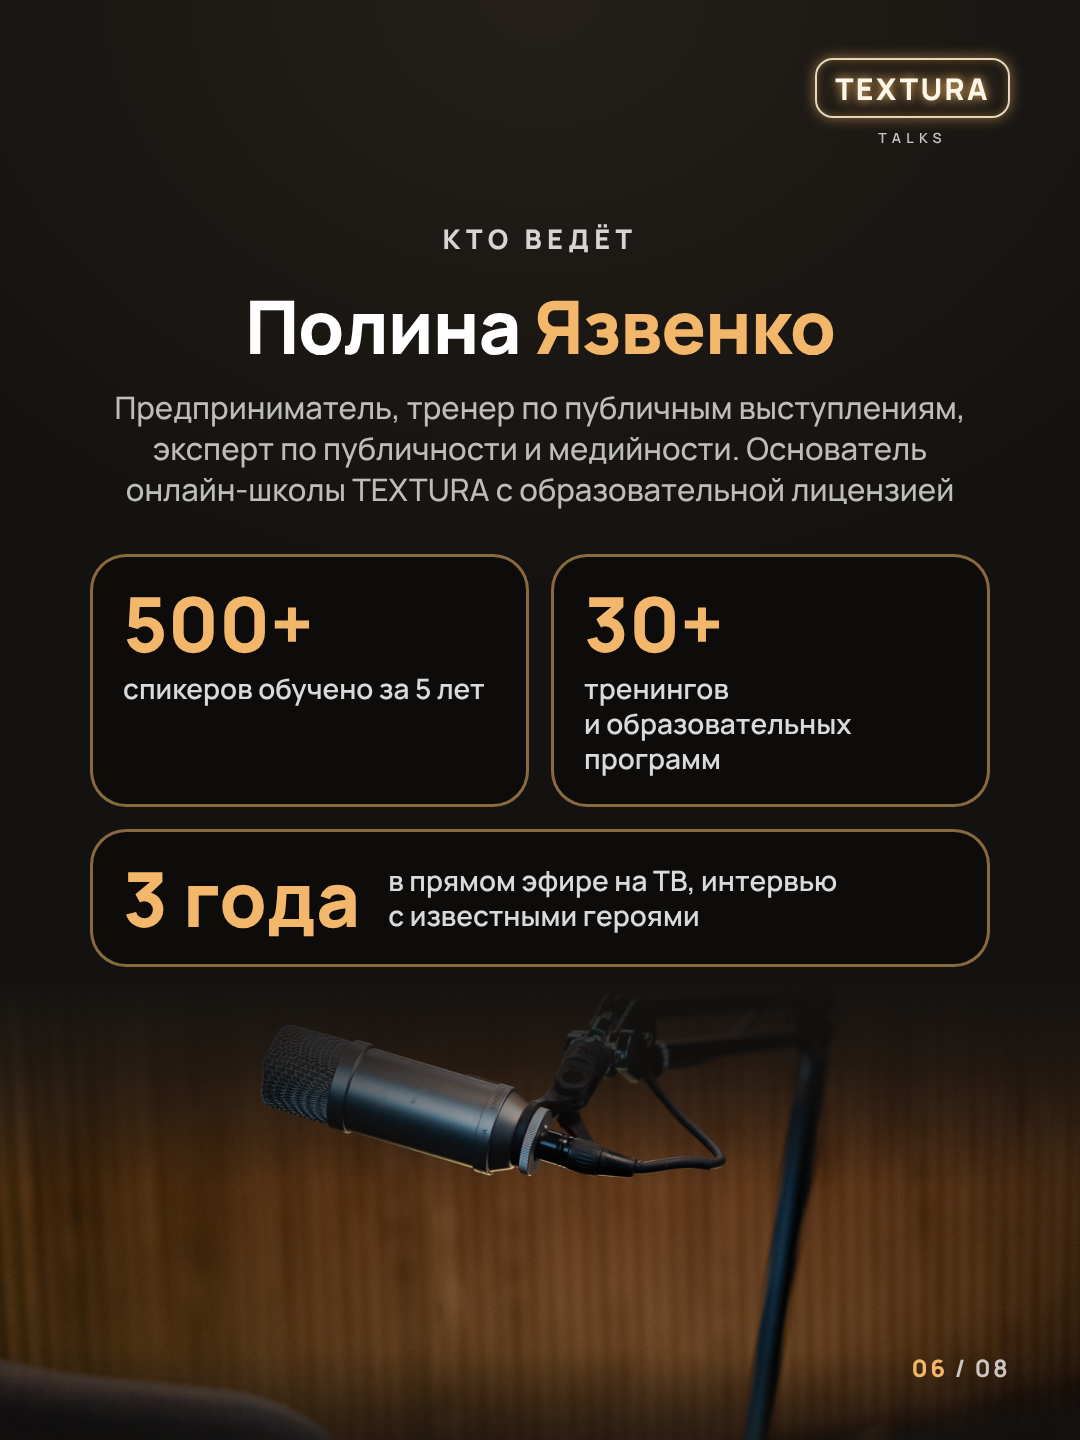
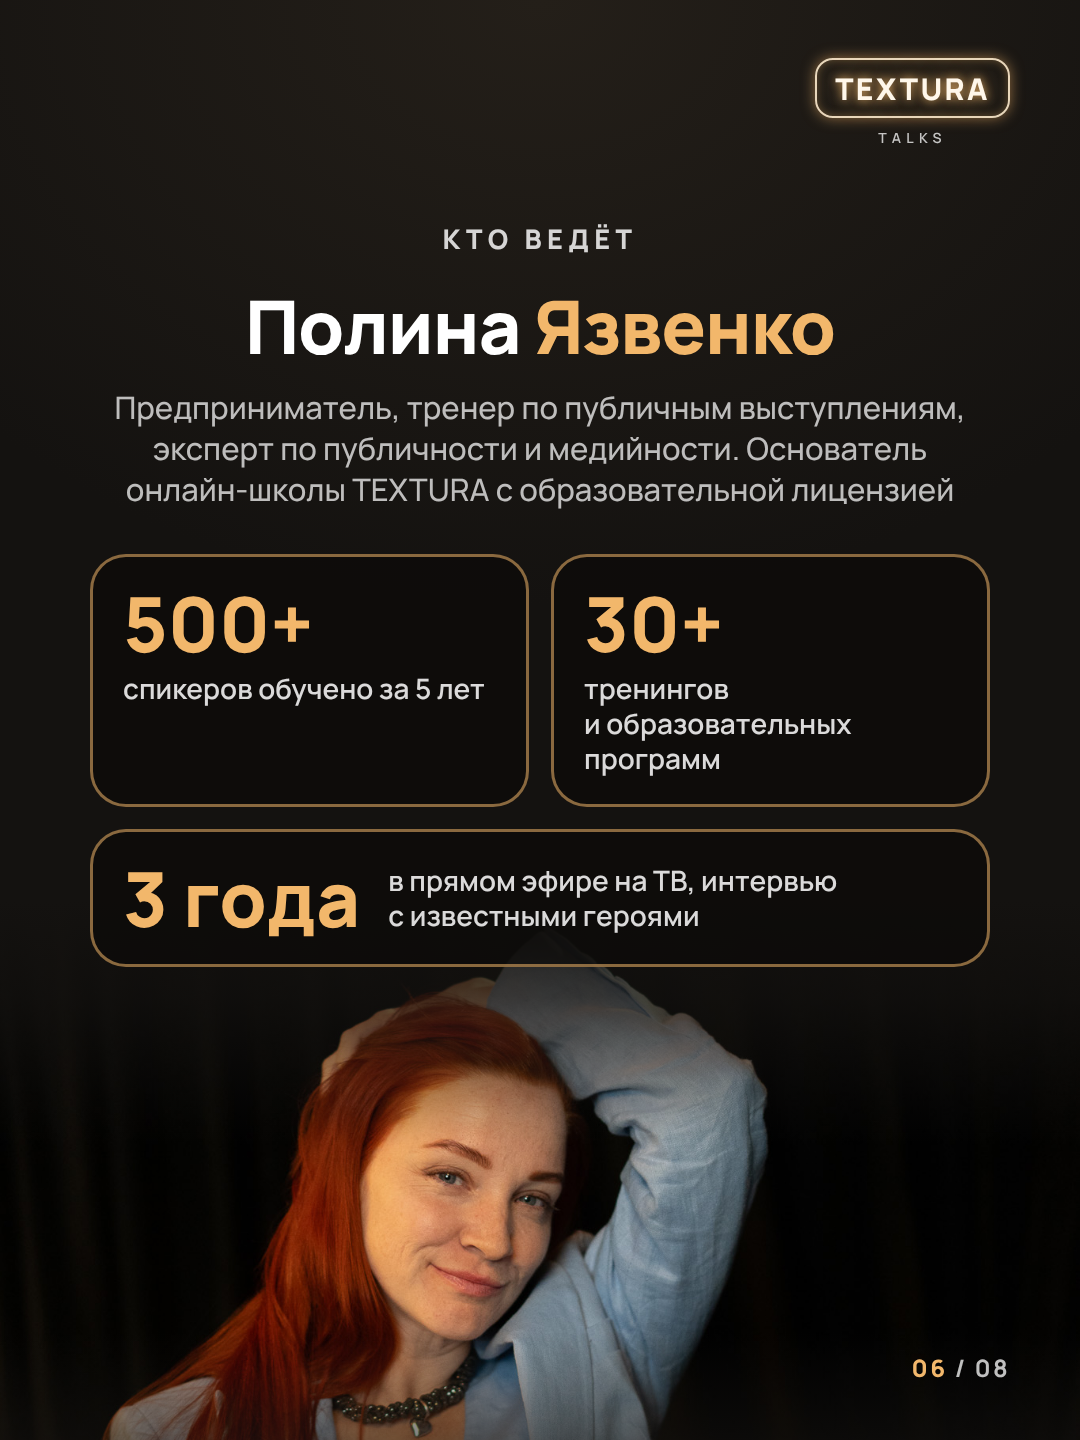
Workshop carousel: Polina's portrait on speaker slide
Claude-Session: https://claude.ai/code/session_01EUhV7va23MNh7ydDpeuyX7

Changed region(s): [[0.0, 0.6562, 1.0, 1.0]]

diff --git a/textura-carousel/workshop.html b/textura-carousel/workshop.html
@@ -147,7 +147,7 @@
 <p class="lead" style="margin-top:30px;">которые сможете использовать:</p>
 <div class="chips"><span>на мероприятиях</span><span>в переговорах</span><span>в интервью</span><span>в соцсетях</span><span>в общении с&nbsp;клиентами</span></div>
 </div><div class="counter"><b>05</b> / 08</div></section>
-<section class="slide"><div class="photo" style="top:980px; background-image:url(photos/w-mic.jpg); background-position:50% 62%;"></div><div class="logo"><div class="neon">TEXTURA</div><div class="sub">TALKS</div></div>
+<section class="slide"><div class="photo" style="top:900px; background-image:url(photos/guest.jpg); background-position:50% 33%;"></div><div class="logo"><div class="neon">TEXTURA</div><div class="sub">TALKS</div></div>
 <div class="content" style="padding-top:220px;">
 <div class="kicker">Кто ведёт</div>
 <h1 style="margin-top:30px;">Полина <span class="hl">Язвенко</span></h1>
